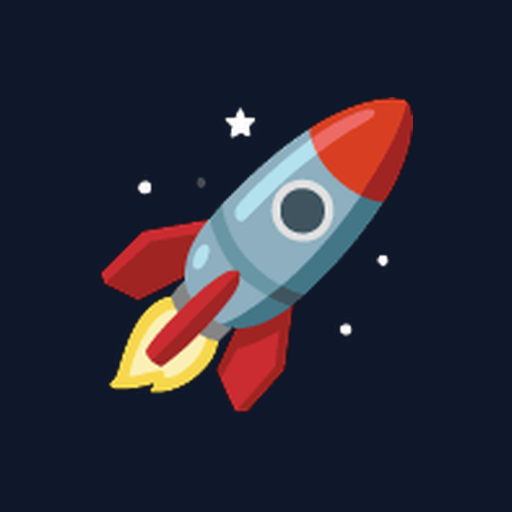
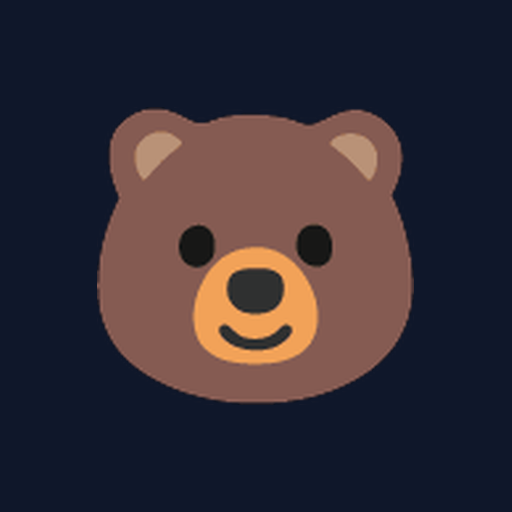
入口頁：火箭圖示改為小熊 🐻（側邊標誌與 PWA 圖示）
Claude-Session: https://claude.ai/code/session_018WoQN4UTXGKGS2TM6guR2t

diff --git a/index.html b/index.html
@@ -61,7 +61,7 @@
   <aside class="drawer" id="navDrawer" aria-hidden="true">
     <div class="drawer-header">
       <div class="drawer-branding">
-        <span class="branding-logo">🚀</span>
+        <span class="branding-logo">🐻</span>
         <span class="branding-text">Simon's Hub</span>
       </div>
       <button class="icon-btn close-btn" id="drawerCloseBtn" aria-label="關閉選單">
